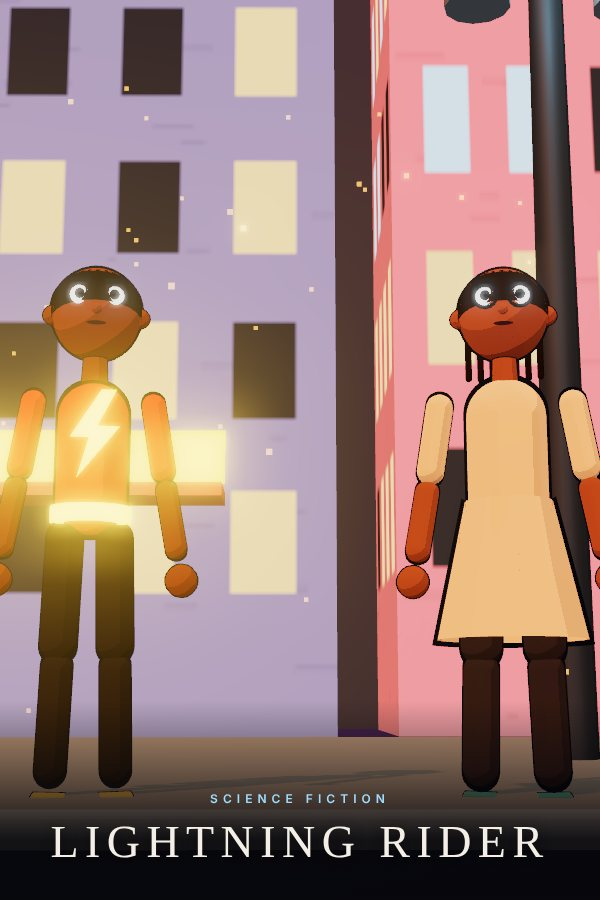
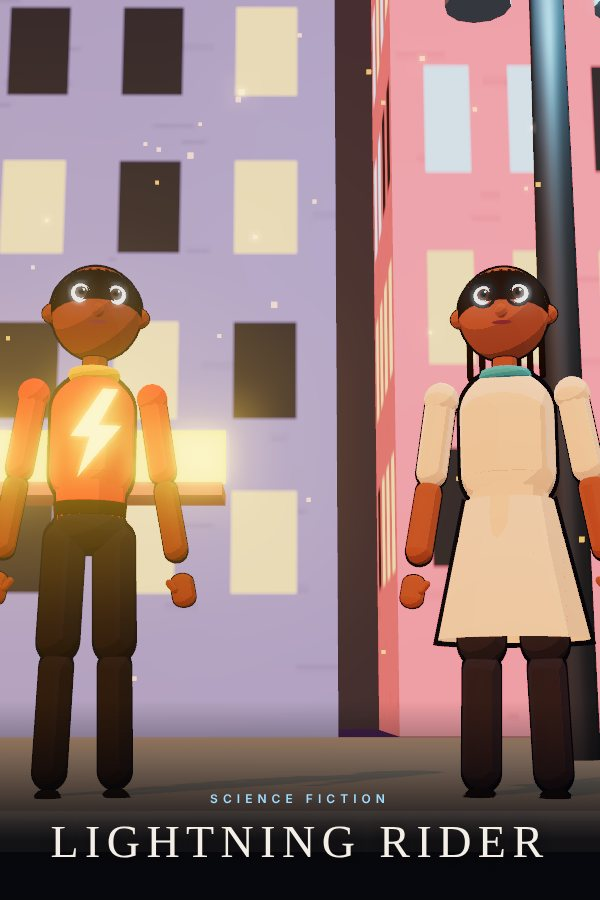
Toon characters: shaped bodies, sleeves, hands, shoes, irises; no glowing parts
Claude-Session: https://claude.ai/code/session_01Xi2Y73UoRN6toNTWidYWxe

diff --git a/public/js/cinema/toon.js b/public/js/cinema/toon.js
@@ -62,7 +62,7 @@ export function createToon(id, member = {}) {
   const topC = member.coat ?? '#3b82f6';
   const accent = member.coat2 ?? '#7fe8ff';
   const pantsC = member.pants ?? '#273046';
-  const shoeC = member.trim ?? '#1b1b22';
+  const shoeC = '#24242b';
   const hairC = member.hair ?? '#1a1a1a';
   const style = HAIR.includes(member.hairstyle) ? member.hairstyle : 'short';
 
@@ -74,19 +74,26 @@ export function createToon(id, member = {}) {
   holder.scale.setScalar(k);
 
   const skinM = toon(skin), topM = toon(topC), pantsM = toon(pantsC), shoeM = toon(shoeC), hairM = toon(hairC);
-  const accentM = new THREE.MeshBasicMaterial({ color: hdr(accent, 2.2) });
+  const accentM = new THREE.MeshBasicMaterial({ color: hdr(accent, 2.2) }); // only for glowing emblems
+  const trimM = toon(member.trim ?? '#e8e8ee'), accentT = toon(accent), soleM = toon('#e9e6df'), beltM = toon('#2b2420');
 
   // ---- legs
   const legs = [];
   for (const sx of [1, -1]) {
     const hip = new THREE.Group();
     hip.position.set(sx * 0.1 * buildW, 0.93, 0);
-    const thigh = limb(0.078 * buildW, 0.36, pantsM);
+    const thigh = limb(0.088 * buildW, 0.34, pantsM);
     const knee = new THREE.Group();
     knee.position.y = -0.46;
-    const shin = limb(0.066 * buildW, 0.34, suit ? pantsM : pantsM);
-    const foot = part(new THREE.BoxGeometry(0.11, 0.07, 0.23), shoeM);
-    foot.position.set(0, -0.5, 0.05);
+    const shin = limb(0.07 * buildW, 0.34, pantsM);
+    const foot = new THREE.Group();
+    const shoe = part(new THREE.CapsuleGeometry(0.055 * buildW, 0.11, 4, 10), shoeM);
+    shoe.rotation.x = Math.PI / 2;
+    shoe.scale.set(1.05, 1, 0.78);
+    const sole = new THREE.Mesh(new THREE.BoxGeometry(0.12 * buildW, 0.022, 0.24), soleM);
+    sole.position.set(0, -0.035, 0.0);
+    foot.add(shoe, sole);
+    foot.position.set(0, -0.485, 0.06);
     knee.add(shin, foot);
     hip.add(thigh, knee);
     body.add(hip);
@@ -97,13 +104,26 @@ export function createToon(id, member = {}) {
   const torso = new THREE.Group();
   torso.position.y = 0.93;
   body.add(torso);
-  const chest = part(new THREE.CapsuleGeometry(0.15 * buildW, 0.3, 6, 14), topM);
-  chest.position.y = 0.27;
-  chest.scale.z = 0.78;
+  // shirt: broad at the shoulders, narrower at the waist, over a pelvis in trouser colour
+  const chest = part(new THREE.CapsuleGeometry(0.16 * buildW, 0.22, 6, 16), topM);
+  chest.position.y = 0.33;
+  chest.scale.set(1.08, 1, 0.74);
   torso.add(chest);
+  const waist = part(new THREE.CylinderGeometry(0.15 * buildW, 0.135 * buildW, 0.16, 18), topM);
+  waist.position.y = 0.12;
+  waist.scale.z = 0.76;
+  torso.add(waist);
+  const pelvis = part(new THREE.SphereGeometry(0.15 * buildW, 18, 12), pantsM);
+  pelvis.position.y = 0.01;
+  pelvis.scale.set(1, 0.72, 0.78);
+  torso.add(pelvis);
+  const collar = part(new THREE.TorusGeometry(0.075, 0.022, 8, 18), trimM, { outline: false });
+  collar.rotation.x = Math.PI / 2;
+  collar.position.set(0, 0.58, 0.005);
+  torso.add(collar);
   if (gear.has('belt')) {
-    const belt = part(new THREE.CylinderGeometry(0.168 * buildW, 0.168 * buildW, 0.06, 20), accentM, { outline: false });
-    belt.position.y = 0.06;
+    const belt = part(new THREE.CylinderGeometry(0.152 * buildW, 0.148 * buildW, 0.05, 20), beltM, { outline: false });
+    belt.position.y = 0.075;
     belt.scale.z = 0.82;
     torso.add(belt);
   }
@@ -122,7 +142,7 @@ export function createToon(id, member = {}) {
     torso.add(skirt);
   }
   if (gear.has('scarf')) {
-    const scarf = part(new THREE.TorusGeometry(0.1, 0.034, 8, 18), accentM, { outline: false });
+    const scarf = part(new THREE.TorusGeometry(0.1, 0.036, 8, 18), accentT, { outline: false });
     scarf.rotation.x = Math.PI / 2;
     scarf.position.y = 0.58;
     torso.add(scarf);
@@ -141,12 +161,22 @@ export function createToon(id, member = {}) {
   for (const sx of [1, -1]) {
     const shoulder = new THREE.Group();
     shoulder.position.set(sx * (0.2 * buildW + 0.04), 0.5, 0);
-    const upper = limb(0.052 * buildW, 0.24, topM);
+    const cap = new THREE.Mesh(new THREE.SphereGeometry(0.066 * buildW, 14, 10), topM);
+    cap.castShadow = true;
+    const upper = limb(0.058 * buildW, 0.24, topM);
+    upper.add(cap);
     const elbow = new THREE.Group();
     elbow.position.y = -0.33;
-    const fore = limb(0.046 * buildW, 0.22, suit ? topM : skinM);
-    const hand = part(new THREE.SphereGeometry(0.058, 12, 10), suit ? accentM : skinM, { outline: !suit });
-    hand.position.y = -0.37;
+    const fore = limb(0.05 * buildW, 0.22, suit ? topM : skinM);
+    const hand = new THREE.Group();
+    const palm = part(new THREE.CapsuleGeometry(0.036, 0.05, 4, 10), suit ? trimM : skinM);
+    palm.scale.set(1.2, 1, 0.7);
+    palm.position.y = -0.03;
+    const thumb = part(new THREE.CapsuleGeometry(0.014, 0.03, 3, 6), suit ? trimM : skinM, { outline: false });
+    thumb.position.set(sx * -0.04, -0.015, 0.018);
+    thumb.rotation.z = sx * 0.5;
+    hand.add(palm, thumb);
+    hand.position.y = -0.375;
     elbow.add(fore, hand);
     shoulder.add(upper, elbow);
     torso.add(shoulder);
@@ -169,8 +199,9 @@ export function createToon(id, member = {}) {
     ear.position.set(sx * 0.163, 0.15, 0);
     head.add(ear);
   }
-  const nose = part(new THREE.SphereGeometry(0.02, 10, 8), skinM, { outline: false });
-  nose.position.set(0, 0.135, 0.165);
+  const nose = part(new THREE.SphereGeometry(0.026, 10, 8), skinM, { outline: false });
+  nose.position.set(0, 0.125, 0.165);
+  nose.scale.set(0.9, 1, 1.1);
   head.add(nose);
 
   // face
@@ -181,9 +212,14 @@ export function createToon(id, member = {}) {
     e.position.set(sx * 0.063, 0.19, 0.148);
     const w = new THREE.Mesh(new THREE.SphereGeometry(0.036, 14, 10), eyeWhite);
     w.scale.z = 0.5;
-    const p = new THREE.Mesh(new THREE.SphereGeometry(0.019, 10, 8), pupil);
-    p.position.z = 0.014;
-    e.add(w, p);
+    const iris = new THREE.Mesh(new THREE.SphereGeometry(0.024, 12, 10), flat('#4a2d1c'));
+    iris.position.z = 0.009;
+    iris.scale.z = 0.6;
+    const p = new THREE.Mesh(new THREE.SphereGeometry(0.0125, 10, 8), pupil);
+    p.position.z = 0.016;
+    const gl = new THREE.Mesh(new THREE.SphereGeometry(0.005, 6, 6), flat('#ffffff'));
+    gl.position.set(0.008, 0.008, 0.021);
+    e.add(w, iris, p, gl);
     head.add(e);
     eyes.push(e);
   }
@@ -194,7 +230,7 @@ export function createToon(id, member = {}) {
     head.add(b);
     brows.push({ m: b, sx, y: 0.245 });
   }
-  const mouth = new THREE.Mesh(new THREE.SphereGeometry(0.036, 14, 10), flat('#3a0f12'));
+  const mouth = new THREE.Mesh(new THREE.SphereGeometry(0.036, 14, 10), flat('#7d2f33'));
   mouth.position.set(0, 0.085, member.beard ? 0.172 : 0.153);
   mouth.scale.set(1, 0.2, 0.35);
   head.add(mouth);
@@ -283,7 +319,7 @@ export function createToon(id, member = {}) {
       e.position.z = 0.184;
       e.scale.set(1.1, 1.25, 1);
       e.children[0].material = new THREE.MeshBasicMaterial({ color: hdr(accent, 2.6) });
-      e.children[1].visible = false;
+      for (const c of e.children.slice(1)) c.visible = false;
     }
     for (const b of brows) b.m.visible = false;
     mouth.material = new THREE.MeshBasicMaterial({ color: hdr(accent, 2.2) });
